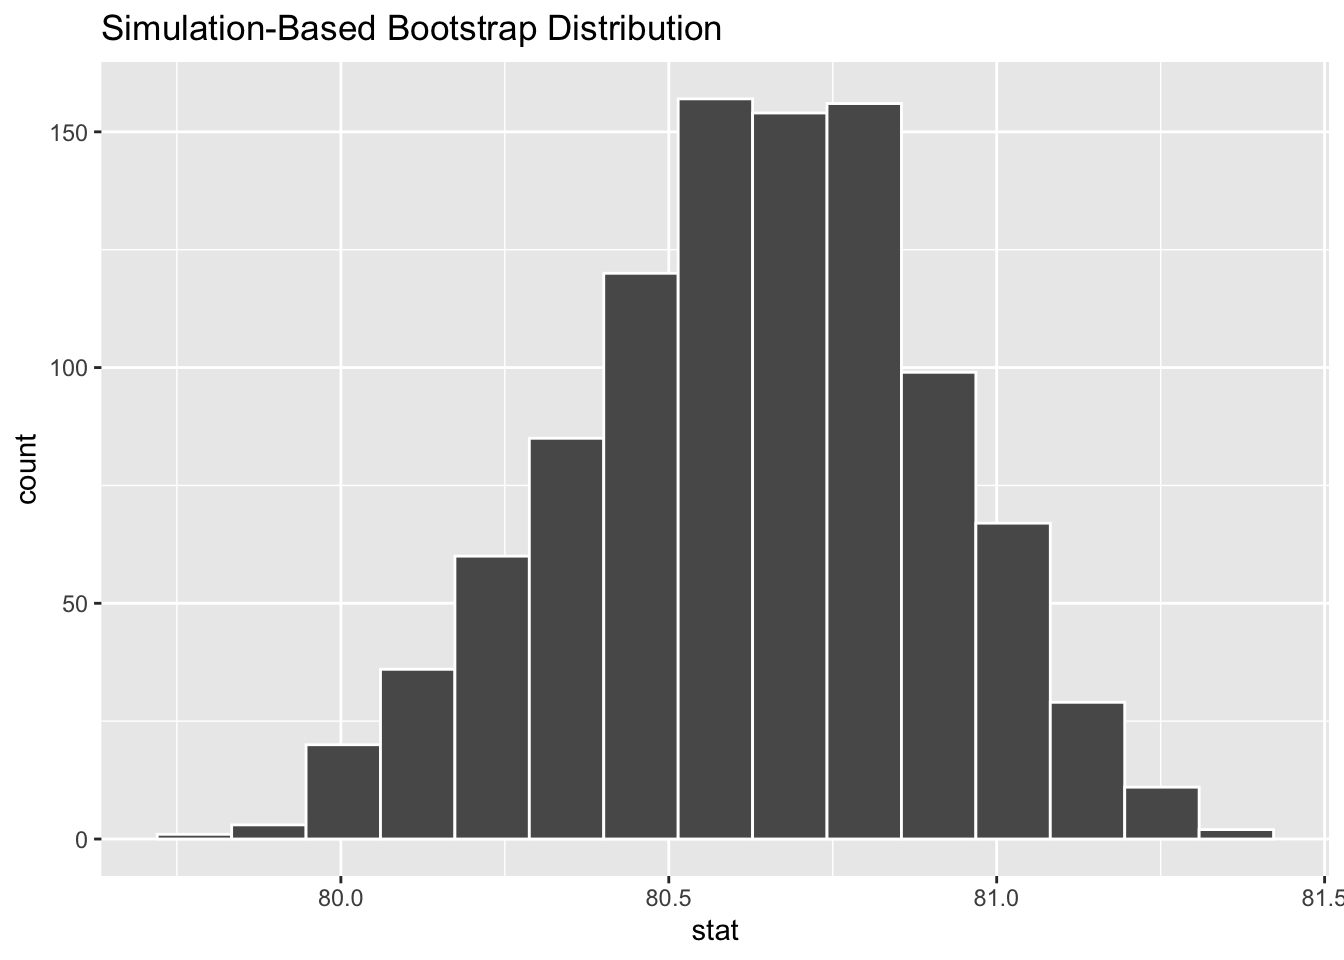
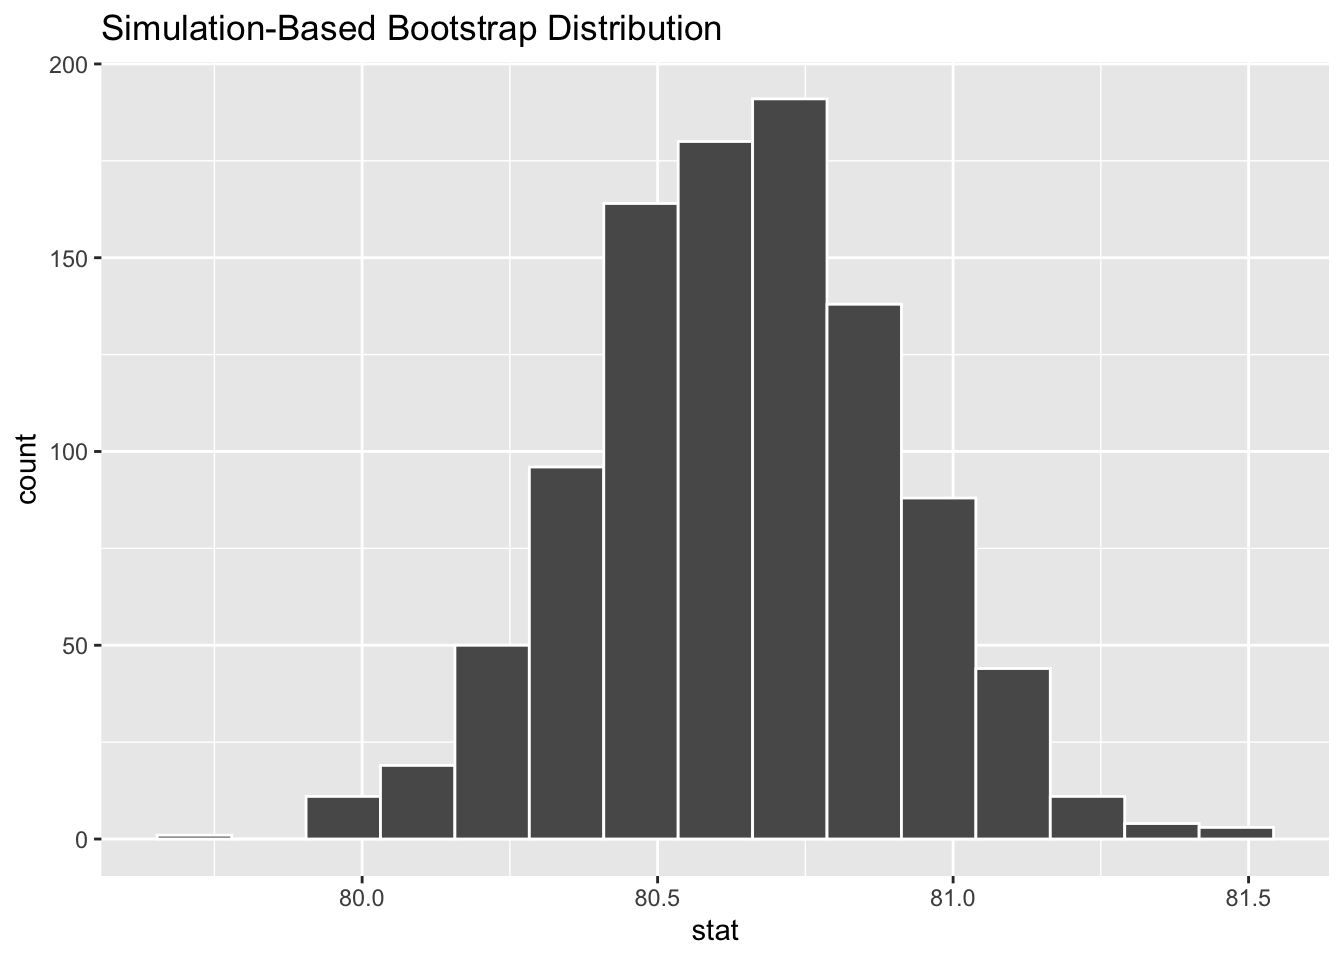
Built site for gh-pages

diff --git a/resources/cheatsheet.html b/resources/cheatsheet.html
@@ -265,6 +265,12 @@ pre > code.sourceCode > span > a:first-child::before { text-decoration: underlin
   <li><a href="#bootstrapping-a-difference-in-means" id="toc-bootstrapping-a-difference-in-means" class="nav-link" data-scroll-target="#bootstrapping-a-difference-in-means">Bootstrapping a difference in means</a></li>
   <li><a href="#bootstrapping-the-difference-between-estimated-ates" id="toc-bootstrapping-the-difference-between-estimated-ates" class="nav-link" data-scroll-target="#bootstrapping-the-difference-between-estimated-ates">Bootstrapping the difference between estimated ATEs</a></li>
   </ul></li>
+  <li><a href="#hypothesis-testing-week-11" id="toc-hypothesis-testing-week-11" class="nav-link" data-scroll-target="#hypothesis-testing-week-11">Hypothesis testing (Week 11)</a>
+  <ul class="collapse">
+  <li><a href="#generating-the-null-distribution-of-a-sample-mean" id="toc-generating-the-null-distribution-of-a-sample-mean" class="nav-link" data-scroll-target="#generating-the-null-distribution-of-a-sample-mean">Generating the null distribution of a sample mean</a></li>
+  <li><a href="#calculating-the-p-value-of-a-hypothesis-test" id="toc-calculating-the-p-value-of-a-hypothesis-test" class="nav-link" data-scroll-target="#calculating-the-p-value-of-a-hypothesis-test">Calculating the p-value of a hypothesis test</a></li>
+  <li><a href="#null-distribution-for-a-difference-in-means" id="toc-null-distribution-for-a-difference-in-means" class="nav-link" data-scroll-target="#null-distribution-for-a-difference-in-means">Null distribution for a difference in means</a></li>
+  </ul></li>
   </ul>
 </nav>
     </div>
@@ -2717,13 +2723,13 @@ Coefficients:
 <span id="cb227-2"><a href="#cb227-2" aria-hidden="true" tabindex="-1"></a>  <span class="fu">slice_sample</span>(<span class="at">n =</span> <span class="dv">5</span>)</span></code><button title="Copy to Clipboard" class="code-copy-button"><i class="bi"></i></button></pre></div>
 <div class="cell-output cell-output-stdout">
 <pre><code># A tibble: 5 × 1
-  year           
-  &lt;chr&gt;          
-1 First-Year     
-2 Junior         
-3 First-Year     
-4 Graduate Year 1
-5 Sophomore      </code></pre>
+  year      
+  &lt;chr&gt;     
+1 Junior    
+2 Not Set   
+3 Sophomore 
+4 First-Year
+5 First-Year</code></pre>
 </div>
 </div>
 </section>
@@ -2737,18 +2743,18 @@ Coefficients:
 <div class="cell-output cell-output-stdout">
 <pre><code># A tibble: 10 × 2
 # Groups:   replicate [2]
-   replicate year      
-       &lt;int&gt; &lt;chr&gt;     
- 1         1 Junior    
- 2         1 Sophomore 
- 3         1 Sophomore 
- 4         1 Sophomore 
- 5         1 Sophomore 
- 6         2 Junior    
- 7         2 Junior    
- 8         2 Sophomore 
- 9         2 First-Year
-10         2 Junior    </code></pre>
+   replicate year           
+       &lt;int&gt; &lt;chr&gt;          
+ 1         1 First-Year     
+ 2         1 Junior         
+ 3         1 Graduate Year 1
+ 4         1 Sophomore      
+ 5         1 Junior         
+ 6         2 Sophomore      
+ 7         2 First-Year     
+ 8         2 Sophomore      
+ 9         2 Sophomore      
+10         2 Junior         </code></pre>
 </div>
 </div>
 <p>You can use this to get repeated draws of a sample statistic like the sample proportion:</p>
@@ -2762,16 +2768,16 @@ Coefficients:
 <pre><code># A tibble: 100 × 2
    replicate fy_prop
        &lt;int&gt;   &lt;dbl&gt;
- 1         1    0.2 
- 2         2    0.25
- 3         3    0.3 
- 4         4    0.4 
- 5         5    0.15
- 6         6    0.25
- 7         7    0.2 
- 8         8    0.25
- 9         9    0.2 
-10        10    0.35
+ 1         1    0.35
+ 2         2    0.3 
+ 3         3    0.5 
+ 4         4    0.3 
+ 5         5    0.3 
+ 6         6    0.3 
+ 7         7    0.4 
+ 8         8    0.2 
+ 9         9    0.15
+10        10    0.3 
 # ℹ 90 more rows</code></pre>
 </div>
 </div>
@@ -2784,8 +2790,7 @@ Coefficients:
 <span id="cb233-2"><a href="#cb233-2" aria-hidden="true" tabindex="-1"></a>  <span class="fu">slice_sample</span>(<span class="at">n =</span> <span class="dv">5</span>) <span class="sc">|&gt;</span></span>
 <span id="cb233-3"><a href="#cb233-3" aria-hidden="true" tabindex="-1"></a>  <span class="fu">pull</span>(year)</span></code><button title="Copy to Clipboard" class="code-copy-button"><i class="bi"></i></button></pre></div>
 <div class="cell-output cell-output-stdout">
-<pre><code>[1] "Graduate Year 1" "First-Year"      "Sophomore"       "First-Year"     
-[5] "Sophomore"      </code></pre>
+<pre><code>[1] "First-Year" "Sophomore"  "Junior"     "Junior"     "Sophomore" </code></pre>
 </div>
 </div>
 </section>
@@ -2830,16 +2835,16 @@ Coefficients:
 <pre><code># A tibble: 1,000 × 2
    replicate sci_therm_mean
        &lt;int&gt;          &lt;dbl&gt;
- 1         1           81.3
- 2         2           81.1
- 3         3           81.4
+ 1         1           80.6
+ 2         2           80.8
+ 3         3           80.3
  4         4           80.8
- 5         5           80.3
- 6         6           80.8
- 7         7           81.0
- 8         8           80.5
- 9         9           80.9
-10        10           80.8
+ 5         5           80.4
+ 6         6           80.6
+ 7         7           80.4
+ 8         8           80.7
+ 9         9           80.8
+10        10           80.5
 # ℹ 990 more rows</code></pre>
 </div>
 </div>
@@ -2855,16 +2860,16 @@ Coefficients:
 # A tibble: 1,000 × 2
    replicate  stat
        &lt;int&gt; &lt;dbl&gt;
- 1         1  80.3
- 2         2  81.0
+ 1         1  80.6
+ 2         2  80.7
  3         3  80.9
- 4         4  81.0
- 5         5  80.1
- 6         6  80.7
- 7         7  80.8
+ 4         4  80.9
+ 5         5  80.7
+ 6         6  80.6
+ 7         7  80.5
  8         8  80.7
- 9         9  81.1
-10        10  80.8
+ 9         9  80.3
+10        10  80.6
 # ℹ 990 more rows</code></pre>
 </div>
 </div>
@@ -2908,18 +2913,18 @@ Coefficients:
 <div class="cell-output cell-output-stdout">
 <pre><code># A tibble: 1,000 × 4
 # Groups:   replicate [1,000]
-   replicate   `0`   `1`    ATE
-       &lt;int&gt; &lt;dbl&gt; &lt;dbl&gt;  &lt;dbl&gt;
- 1         1  2.70  3.35 0.648 
- 2         2  2.62  3.08 0.453 
- 3         3  2.70  3.04 0.336 
- 4         4  2.56  2.98 0.417 
- 5         5  2.73  3.15 0.424 
- 6         6  2.80  3.09 0.293 
- 7         7  2.67  3.06 0.391 
- 8         8  2.84  3.17 0.332 
- 9         9  2.88  3.20 0.328 
-10        10  2.97  3.06 0.0932
+   replicate   `0`   `1`   ATE
+       &lt;int&gt; &lt;dbl&gt; &lt;dbl&gt; &lt;dbl&gt;
+ 1         1  2.65  3.04 0.395
+ 2         2  2.80  3.20 0.399
+ 3         3  2.62  2.95 0.327
+ 4         4  2.71  2.88 0.172
+ 5         5  2.71  2.98 0.263
+ 6         6  2.70  3.04 0.344
+ 7         7  2.95  3.13 0.182
+ 8         8  2.78  3.30 0.522
+ 9         9  2.71  3.24 0.532
+10        10  2.87  3.26 0.388
 # ℹ 990 more rows</code></pre>
 </div>
 </div>
@@ -2932,7 +2937,7 @@ Coefficients:
 <pre><code># A tibble: 1 × 2
   lower_ci upper_ci
      &lt;dbl&gt;    &lt;dbl&gt;
-1   0.0554    0.711</code></pre>
+1   0.0519    0.702</code></pre>
 </div>
 </div>
 <p>We can also use the <code>specify</code> workflow from <code>infer</code>, but we need to be careful about setting the order of the groups for the difference in means in the <code>calculate</code> step:</p>
@@ -2947,18 +2952,18 @@ Coefficients:
 <pre><code>Response: numberim.post (numeric)
 Explanatory: treatment (factor)
 # A tibble: 1,000 × 2
-   replicate   stat
-       &lt;int&gt;  &lt;dbl&gt;
- 1         1 0.504 
- 2         2 0.304 
- 3         3 0.273 
- 4         4 0.174 
- 5         5 0.502 
- 6         6 0.152 
- 7         7 0.290 
- 8         8 0.393 
- 9         9 0.0898
-10        10 0.603 
+   replicate  stat
+       &lt;int&gt; &lt;dbl&gt;
+ 1         1 0.662
+ 2         2 0.216
+ 3         3 0.613
+ 4         4 0.393
+ 5         5 0.379
+ 6         6 0.453
+ 7         7 0.339
+ 8         8 0.244
+ 9         9 0.247
+10        10 0.422
 # ℹ 990 more rows</code></pre>
 </div>
 </div>
@@ -3047,19 +3052,134 @@ using the `.groups` argument.</code></pre>
 <div class="cell-output cell-output-stdout">
 <pre><code># A tibble: 1,000 × 4
 # Groups:   replicate [1,000]
-   replicate  ATE_c  ATE_nc interaction
-       &lt;int&gt;  &lt;dbl&gt;   &lt;dbl&gt;       &lt;dbl&gt;
- 1         1 0.429  -0.8         1.23  
- 2         2 0.876  -0.5         1.38  
- 3         3 0.703  -0.8         1.50  
- 4         4 0.603  -1.06        1.67  
- 5         5 0.625  -0.6         1.22  
- 6         6 0.414  -0.583       0.998 
- 7         7 0.383  -0.257       0.640 
- 8         8 0.549  -0.542       1.09  
- 9         9 0.0685  0.0417      0.0268
-10        10 0.237  -0.229       0.466 
+   replicate ATE_c ATE_nc interaction
+       &lt;int&gt; &lt;dbl&gt;  &lt;dbl&gt;       &lt;dbl&gt;
+ 1         1 0.240 -0.667      0.907 
+ 2         2 0.647 -0.319      0.967 
+ 3         3 0.667 -0.857      1.52  
+ 4         4 0.284  0.375     -0.0908
+ 5         5 0.358  0.25       0.108 
+ 6         6 0.428  0.667     -0.239 
+ 7         7 0.596 -0.667      1.26  
+ 8         8 0.444 -1.14       1.59  
+ 9         9 0.8    0.143      0.657 
+10        10 0.360 -0.321      0.682 
 # ℹ 990 more rows</code></pre>
+</div>
+</div>
+</section>
+</section>
+<section id="hypothesis-testing-week-11" class="level2">
+<h2 class="anchored" data-anchor-id="hypothesis-testing-week-11">Hypothesis testing (Week 11)</h2>
+<section id="generating-the-null-distribution-of-a-sample-mean" class="level3">
+<h3 class="anchored" data-anchor-id="generating-the-null-distribution-of-a-sample-mean">Generating the null distribution of a sample mean</h3>
+<div class="cell">
+<div class="sourceCode cell-code" id="cb262"><pre class="sourceCode r code-with-copy"><code class="sourceCode r"><span id="cb262-1"><a href="#cb262-1" aria-hidden="true" tabindex="-1"></a>null_dist <span class="ot">&lt;-</span> gss <span class="sc">|&gt;</span></span>
+<span id="cb262-2"><a href="#cb262-2" aria-hidden="true" tabindex="-1"></a>  <span class="fu">specify</span>(<span class="at">response =</span> hours) <span class="sc">|&gt;</span></span>
+<span id="cb262-3"><a href="#cb262-3" aria-hidden="true" tabindex="-1"></a>  <span class="fu">hypothesize</span>(<span class="at">null =</span> <span class="st">"point"</span>, <span class="at">mu =</span> <span class="dv">40</span>) <span class="sc">|&gt;</span></span>
+<span id="cb262-4"><a href="#cb262-4" aria-hidden="true" tabindex="-1"></a>  <span class="fu">generate</span>(<span class="at">reps =</span> <span class="dv">1000</span>, <span class="at">type =</span> <span class="st">"bootstrap"</span>) <span class="sc">|&gt;</span></span>
+<span id="cb262-5"><a href="#cb262-5" aria-hidden="true" tabindex="-1"></a>  <span class="fu">calculate</span>(<span class="at">stat =</span> <span class="st">"mean"</span>)</span>
+<span id="cb262-6"><a href="#cb262-6" aria-hidden="true" tabindex="-1"></a>null_dist</span></code><button title="Copy to Clipboard" class="code-copy-button"><i class="bi"></i></button></pre></div>
+<div class="cell-output cell-output-stdout">
+<pre><code>Response: hours (numeric)
+Null Hypothesis: point
+# A tibble: 1,000 × 2
+   replicate  stat
+       &lt;int&gt; &lt;dbl&gt;
+ 1         1  40.4
+ 2         2  39.0
+ 3         3  39.1
+ 4         4  41.2
+ 5         5  40.8
+ 6         6  40.1
+ 7         7  39.9
+ 8         8  40.7
+ 9         9  40.2
+10        10  40.5
+# ℹ 990 more rows</code></pre>
+</div>
+</div>
+</section>
+<section id="calculating-the-p-value-of-a-hypothesis-test" class="level3">
+<h3 class="anchored" data-anchor-id="calculating-the-p-value-of-a-hypothesis-test">Calculating the p-value of a hypothesis test</h3>
+<p>If we want to calculate the p-value of the test, we need to first calculate the observed value of the sample mean and then pass that to the <code>get_p_value</code> function:</p>
+<div class="cell">
+<div class="sourceCode cell-code" id="cb264"><pre class="sourceCode r code-with-copy"><code class="sourceCode r"><span id="cb264-1"><a href="#cb264-1" aria-hidden="true" tabindex="-1"></a>obs_mean <span class="ot">&lt;-</span> gss <span class="sc">|&gt;</span></span>
+<span id="cb264-2"><a href="#cb264-2" aria-hidden="true" tabindex="-1"></a>  <span class="fu">specify</span>(<span class="at">response =</span> hours) <span class="sc">|&gt;</span></span>
+<span id="cb264-3"><a href="#cb264-3" aria-hidden="true" tabindex="-1"></a>  <span class="fu">calculate</span>(<span class="at">stat =</span> <span class="st">"mean"</span>)</span>
+<span id="cb264-4"><a href="#cb264-4" aria-hidden="true" tabindex="-1"></a></span>
+<span id="cb264-5"><a href="#cb264-5" aria-hidden="true" tabindex="-1"></a><span class="fu">get_p_value</span>(null_dist, obs_mean, <span class="at">direction =</span> <span class="st">"both"</span>)</span></code><button title="Copy to Clipboard" class="code-copy-button"><i class="bi"></i></button></pre></div>
+<div class="cell-output cell-output-stdout">
+<pre><code># A tibble: 1 × 1
+  p_value
+    &lt;dbl&gt;
+1   0.038</code></pre>
+</div>
+</div>
+<p>We can also visualize the p-value:</p>
+<div class="cell">
+<div class="sourceCode cell-code" id="cb266"><pre class="sourceCode r code-with-copy"><code class="sourceCode r"><span id="cb266-1"><a href="#cb266-1" aria-hidden="true" tabindex="-1"></a><span class="fu">visualize</span>(null_dist) <span class="sc">+</span></span>
+<span id="cb266-2"><a href="#cb266-2" aria-hidden="true" tabindex="-1"></a>  <span class="fu">shade_p_value</span>(obs_mean, <span class="at">direction =</span> <span class="st">"both"</span>)</span></code><button title="Copy to Clipboard" class="code-copy-button"><i class="bi"></i></button></pre></div>
+<div class="cell-output-display">
+<p><img src="cheatsheet_files/figure-html/unnamed-chunk-125-1.png" class="img-fluid" width="672"></p>
+</div>
+</div>
+</section>
+<section id="null-distribution-for-a-difference-in-means" class="level3">
+<h3 class="anchored" data-anchor-id="null-distribution-for-a-difference-in-means">Null distribution for a difference in means</h3>
+<p>For a diffrence in means, we can use a similar approach, but need to turn our treatment/grouping variable into a charactor/factor variable. Then we need to make sure we sepcify the order the difference in mean should be taken across groups. First we calculate the effect and then get the null distribution using the <code>permute</code> approach.</p>
+<div class="cell">
+<div class="sourceCode cell-code" id="cb267"><pre class="sourceCode r code-with-copy"><code class="sourceCode r"><span id="cb267-1"><a href="#cb267-1" aria-hidden="true" tabindex="-1"></a>trains <span class="ot">&lt;-</span> trains <span class="sc">|&gt;</span></span>
+<span id="cb267-2"><a href="#cb267-2" aria-hidden="true" tabindex="-1"></a>  <span class="fu">mutate</span>(<span class="at">treated =</span> <span class="fu">if_else</span>(treatment <span class="sc">==</span> <span class="dv">1</span>, <span class="st">"Treated"</span>, <span class="st">"Untreated"</span>))</span>
+<span id="cb267-3"><a href="#cb267-3" aria-hidden="true" tabindex="-1"></a></span>
+<span id="cb267-4"><a href="#cb267-4" aria-hidden="true" tabindex="-1"></a>ate <span class="ot">&lt;-</span> trains <span class="sc">|&gt;</span></span>
+<span id="cb267-5"><a href="#cb267-5" aria-hidden="true" tabindex="-1"></a>  <span class="fu">specify</span>(numberim.post <span class="sc">~</span> treated) <span class="sc">|&gt;</span></span>
+<span id="cb267-6"><a href="#cb267-6" aria-hidden="true" tabindex="-1"></a>  <span class="fu">calculate</span>(<span class="at">stat =</span> <span class="st">"diff in means"</span>,</span>
+<span id="cb267-7"><a href="#cb267-7" aria-hidden="true" tabindex="-1"></a>            <span class="at">order =</span> <span class="fu">c</span>(<span class="st">"Treated"</span>, <span class="st">"Untreated"</span>))</span>
+<span id="cb267-8"><a href="#cb267-8" aria-hidden="true" tabindex="-1"></a>ate</span></code><button title="Copy to Clipboard" class="code-copy-button"><i class="bi"></i></button></pre></div>
+<div class="cell-output cell-output-stdout">
+<pre><code>Response: numberim.post (numeric)
+Explanatory: treated (factor)
+# A tibble: 1 × 1
+   stat
+  &lt;dbl&gt;
+1 0.383</code></pre>
+</div>
+<div class="sourceCode cell-code" id="cb269"><pre class="sourceCode r code-with-copy"><code class="sourceCode r"><span id="cb269-1"><a href="#cb269-1" aria-hidden="true" tabindex="-1"></a>null_dist <span class="ot">&lt;-</span> trains <span class="sc">|&gt;</span></span>
+<span id="cb269-2"><a href="#cb269-2" aria-hidden="true" tabindex="-1"></a>  <span class="fu">specify</span>(numberim.post <span class="sc">~</span> treated) <span class="sc">|&gt;</span></span>
+<span id="cb269-3"><a href="#cb269-3" aria-hidden="true" tabindex="-1"></a>  <span class="fu">hypothesize</span>(<span class="at">null =</span> <span class="st">"independence"</span>) <span class="sc">|&gt;</span></span>
+<span id="cb269-4"><a href="#cb269-4" aria-hidden="true" tabindex="-1"></a>  <span class="fu">generate</span>(<span class="at">reps =</span> <span class="dv">1000</span>,</span>
+<span id="cb269-5"><a href="#cb269-5" aria-hidden="true" tabindex="-1"></a>           <span class="at">type =</span> <span class="st">"permute"</span>) <span class="sc">|&gt;</span></span>
+<span id="cb269-6"><a href="#cb269-6" aria-hidden="true" tabindex="-1"></a>  <span class="fu">calculate</span>(<span class="at">stat =</span> <span class="st">"diff in means"</span>, <span class="at">order =</span> <span class="fu">c</span>(<span class="st">"Treated"</span>, <span class="st">"Untreated"</span>))</span>
+<span id="cb269-7"><a href="#cb269-7" aria-hidden="true" tabindex="-1"></a>null_dist</span></code><button title="Copy to Clipboard" class="code-copy-button"><i class="bi"></i></button></pre></div>
+<div class="cell-output cell-output-stdout">
+<pre><code>Response: numberim.post (numeric)
+Explanatory: treated (factor)
+Null Hypothesis: independence
+# A tibble: 1,000 × 2
+   replicate    stat
+       &lt;int&gt;   &lt;dbl&gt;
+ 1         1 -0.180 
+ 2         2  0.207 
+ 3         3  0.242 
+ 4         4  0.313 
+ 5         5 -0.0395
+ 6         6 -0.145 
+ 7         7 -0.110 
+ 8         8 -0.0395
+ 9         9  0.101 
+10        10 -0.110 
+# ℹ 990 more rows</code></pre>
+</div>
+</div>
+<p>Getting the p-value is the same:</p>
+<div class="cell">
+<div class="sourceCode cell-code" id="cb271"><pre class="sourceCode r code-with-copy"><code class="sourceCode r"><span id="cb271-1"><a href="#cb271-1" aria-hidden="true" tabindex="-1"></a><span class="fu">get_p_value</span>(null_dist, <span class="at">obs_stat =</span> ate, <span class="at">direction =</span> <span class="st">"both"</span>)</span></code><button title="Copy to Clipboard" class="code-copy-button"><i class="bi"></i></button></pre></div>
+<div class="cell-output cell-output-stdout">
+<pre><code># A tibble: 1 × 1
+  p_value
+    &lt;dbl&gt;
+1   0.026</code></pre>
 </div>
 </div>
 
